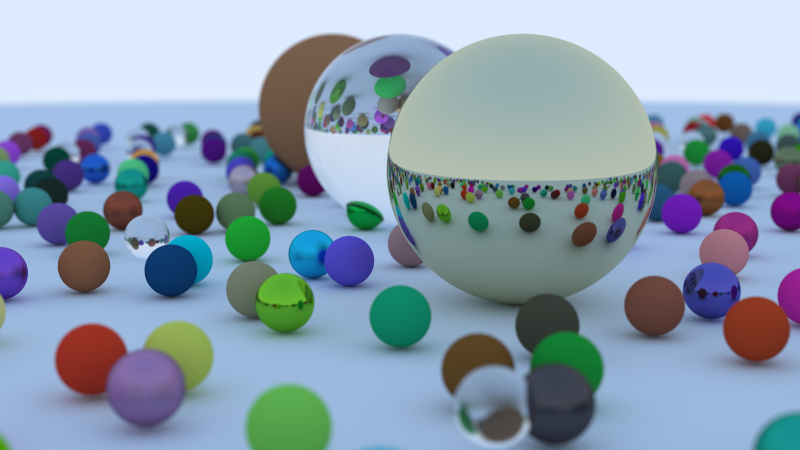
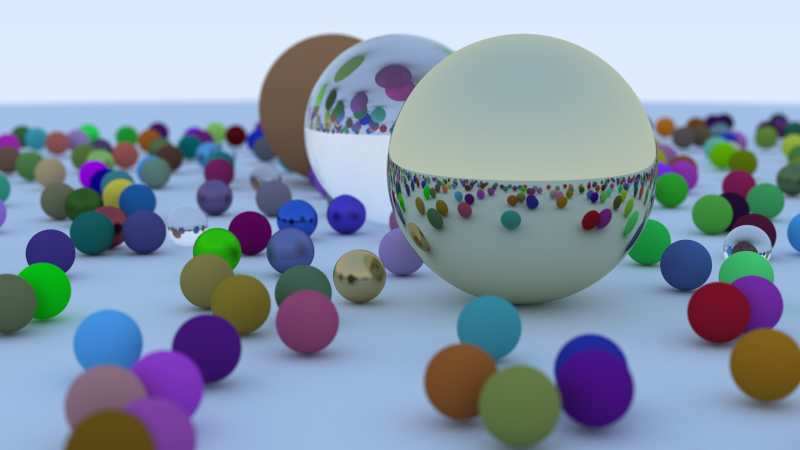
random updates

diff --git a/src/main.rs b/src/main.rs
@@ -5,10 +5,9 @@ use raytracer::camera::{Camera, CameraConfig};
 use raytracer::color::Color;
 use raytracer::hittable::HittableList;
 use raytracer::hittable::sphere::Sphere;
-use raytracer::materials::dielectric::{Dielectric, DielectricConfig};
-use raytracer::materials::lambertian::LambertianConfig;
-use raytracer::materials::metal::MetalConfig;
-use raytracer::materials::{lambertian::Lambertian, metal::Metal};
+use raytracer::materials::{Dielectric, DielectricConfig};
+use raytracer::materials::{Lambertian, LambertianConfig};
+use raytracer::materials::{Metal, MetalConfig};
 use raytracer::math::{Point3, rand, rand_rng};
 use raytracer::{App, Buffer};
 use std::rc::Rc;
@@ -27,8 +26,8 @@ fn main() {
         image_width: WIDTH as u32,
         image_height: HEIGHT as u32,
         aspect_ratio: ASPECT_RATIO,
-        samples_per_pixel: 100,
-        max_ray_depth: 10,
+        samples_per_pixel: 3000,
+        max_ray_depth: 300,
         light_intensity: 0.95,
         sky_color: Color::new(0.5, 0.7, 1.0),
 

diff --git a/src/materials.rs b/src/materials.rs
@@ -2,6 +2,10 @@ pub mod dielectric;
 pub mod lambertian;
 pub mod metal;
 
+pub use dielectric::{Dielectric, DielectricConfig};
+pub use lambertian::{Lambertian, LambertianConfig};
+pub use metal::{Metal, MetalConfig};
+
 use crate::{color::Color, hittable::HitRecord, math::Ray};
 
 pub trait Material: Sync {

diff --git a/src/math.rs b/src/math.rs
@@ -14,7 +14,7 @@ pub type Point3 = Vec3A;
 
 thread_local! {
     static RNG: std::cell::RefCell<Xoshiro256Plus> =
-        std::cell::RefCell::new(Xoshiro256Plus::seed_from_u64(42));
+        std::cell::RefCell::new(Xoshiro256Plus::seed_from_u64(9));
 }
 
 #[inline]
